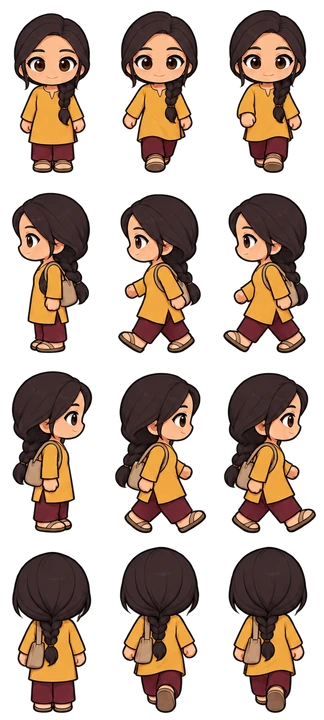
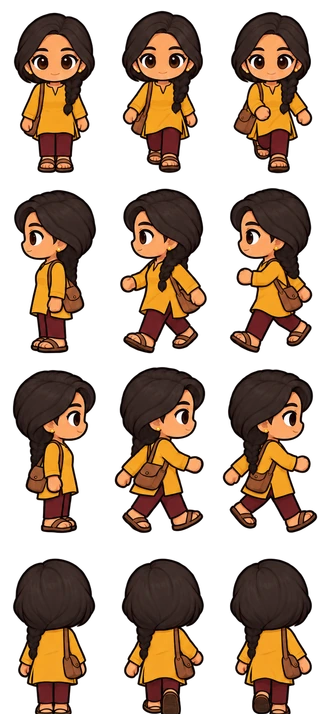
feat: enhance character walking animations and sprite slicing functionality

diff --git a/src/data/assets.ts b/src/data/assets.ts
@@ -36,6 +36,18 @@ export interface CharacterSheet extends SheetDef {
 /** The player's normal walking speed (world units / s). A doctor is 64 units tall. */
 export const PLAYER_WALK_SPEED = 115;
 
+/**
+ * Walk cycles are only 4 frames (stand, step, stand, step), so slow walkers (visitors, nurses,
+ * a gently tilted joystick) dropped to 3–4 frames a second and looked choppy. Steps still keep
+ * pace with the speed, but never slower than ~85% of the base rate (about 6 frames a second).
+ */
+export const MIN_WALK_ANIM_SCALE = 0.85;
+
+/** Animation speed for a character moving at `speed` (world units / s). */
+export function walkAnimScale(speed: number, sheet: CharacterSheet): number {
+  return Math.max(MIN_WALK_ANIM_SCALE, speed / sheet.walkSpeed);
+}
+
 const FRAME = { frameHeight: 180, padding: 6, contentHeight: 168 } as const;
 const WALKER = {
   ...FRAME,
@@ -109,6 +121,7 @@ export const NPC_WALKER_SHEETS = {
     displayHeight: 60,
   },
   // Phase 3 patients (art-source/characters/patient-<id>-walk-sheet.webp -> tools/slice-sprite-sheet.mjs)
+  // wong and farid: sliced with --mirror-steps 0,3 (their AI sheets step with the same leg front/back)
   daniel: {
     key: "npc-daniel-walk",
     url: "assets/characters/daniel-walk.webp",

diff --git a/src/entities/CaseNpc.ts b/src/entities/CaseNpc.ts
@@ -4,9 +4,11 @@ import { addBaked } from "../art/bake";
 import { PAL } from "../art/palette";
 import { textStyle } from "../art/environment";
 import type { CharacterDirection, CharacterSheet, SheetDef } from "../data/assets";
+import { walkAnimScale } from "../data/assets";
 import type { InteractableDef, Point } from "../data/rooms";
 
-const WALK_SPEED = 70;
+/** Visitors walk a little slower than the doctor (115) but not sluggishly. */
+const WALK_SPEED = 80;
 
 /**
  * A visiting patient. They can sit on a chair (pose sheet), walk somewhere on their own
@@ -183,7 +185,7 @@ export default class CaseNpc {
       this.pos.y += (dy / dist) * step;
       this.dir = Math.abs(dx) > Math.abs(dy) ? (dx < 0 ? "left" : "right") : dy < 0 ? "up" : "down";
       this.walker.anims.play(`${this.walkSheet.key}-walk-${this.dir}`, true);
-      this.walker.anims.timeScale = WALK_SPEED / this.walkSheet.walkSpeed;
+      this.walker.anims.timeScale = walkAnimScale(WALK_SPEED, this.walkSheet);
     }
     this.sync();
   }

diff --git a/src/entities/Player.ts b/src/entities/Player.ts
@@ -3,6 +3,7 @@ import { drawStaff, type Facing } from "../art/characters";
 import { PAL } from "../art/palette";
 import { PLAYER_RADIUS } from "../data/rooms";
 import type { CharacterDirection, CharacterSheet } from "../data/assets";
+import { walkAnimScale } from "../data/assets";
 
 /**
  * Player avatar. The container's position is the point between the feet, which is also the
@@ -112,7 +113,7 @@ export default class Player extends Phaser.GameObjects.Container {
       if (moving) {
         this.sprite.anims.play(`${this.sheet.key}-walk-${this.direction}`, true);
         // steps keep pace with the actual speed (normal walk, brisk auto-walk...)
-        this.sprite.anims.timeScale = this.body.velocity.length() / this.sheet.walkSpeed;
+        this.sprite.anims.timeScale = walkAnimScale(this.body.velocity.length(), this.sheet);
       } else if (this.wasMoving) {
         this.sprite.anims.stop();
         this.sprite.setFrame(this.sheet.rows[this.direction] * 3);

diff --git a/src/entities/Npc.ts b/src/entities/Npc.ts
@@ -3,6 +3,7 @@ import { drawPatient } from "../art/characters";
 import { addBaked } from "../art/bake";
 import { PAL } from "../art/palette";
 import type { CharacterDirection, SheetDef } from "../data/assets";
+import { walkAnimScale } from "../data/assets";
 import type { PoseNpcDef, WalkerNpcDef } from "../data/npcs";
 import type { Point } from "../data/rooms";
 
@@ -152,7 +153,7 @@ export class WalkerNpc {
       this.pos.y += (dy / dist) * move;
       this.dir = this.facing(dx, dy);
       this.sprite.anims.play(`${sheet.key}-walk-${this.dir}`, true);
-      this.sprite.anims.timeScale = speed / sheet.walkSpeed;
+      this.sprite.anims.timeScale = walkAnimScale(speed, sheet);
     }
     this.sync();
   }

diff --git a/art-source/CHARACTER_PROMPTS.md b/art-source/CHARACTER_PROMPTS.md
@@ -13,6 +13,7 @@ Prompt untuk menjana 7 watak pesakit baru supaya sama gaya dengan Amina. Setiap 
 - Latar mesti **putih kosong**, dan figura **tidak bersentuhan**. Skrip pemotong sprite
   (`tools/slice-sprite-sheet.py`) bergantung pada dua perkara ini.
 - Jana semula kalau:
+  - frame langkah (lajur 2 dan 3) menunjukkan kaki yang sama melangkah — terutama pandangan belakang
   - bilangan figura salah (walk = 12, sit = 3)
   - arah tertukar (baris mesti ikut urutan: depan → kiri → kanan → belakang)
   - ada bayang, lantai, kerusi, teks atau garis grid
@@ -54,7 +55,14 @@ Row 1: facing the viewer (front view).
 Row 2: facing left (side view, walking to the left).
 Row 3: facing right (side view, walking to the right).
 Row 4: back view (walking away from the viewer).
-Column 1: standing still. Column 2: walking, left foot forward. Column 3: walking, right foot forward.
+Column 1: standing still, both feet together.
+WALK CYCLE (very important): column 2 and column 3 must be DIFFERENT steps, mirror opposites of
+each other, so the legs clearly alternate. Column 2: LEFT foot forward, right foot back, right arm
+swinging forward. Column 3: RIGHT foot forward, left foot back, left arm swinging forward. In the
+back view (row 4) a different heel is lifted in column 2 and column 3.
+Use chibi body proportions exactly like the reference: a big round head about one third of the
+total height, a short chubby body and short legs. Keep any carried item in the same hand in every
+frame of a row.
 
 Pure white background. No floor, no shadows, no text, no labels, no grid lines, no frames.
 Figures must not touch or overlap.
@@ -154,6 +162,10 @@ node tools/slice-sprite-sheet.mjs art-source/characters/patient-suresh-walk-shee
 node tools/slice-sprite-sheet.mjs art-source/characters/patient-suresh-sit-sheet.webp public/assets/characters/suresh-sit.webp preview.png --rows 1 --cols 3
 node tools/make-portrait.mjs art-source/characters/patient-suresh-walk-sheet.webp public/assets/portraits/suresh.webp
 ```
+
+Kalau frame langkah pandangan depan/belakang melangkah dengan kaki yang sama, dan watak tu tak
+pegang barang di sebelah tangan, tambah `--mirror-steps 0,3` pada arahan walk sheet (frame langkah
+kedua dibina daripada cerminan yang pertama). Wong dan Farid dipotong dengan pilihan ni.
 
 Lepas tu masukkan nombor `frameWidth` yang dicetak ke dalam `src/data/assets.ts`, dan tukar watak
 tu dalam `src/data/patients.ts` (buang `tint`, set `portrait`). Watak yang belum siap guna sprite
